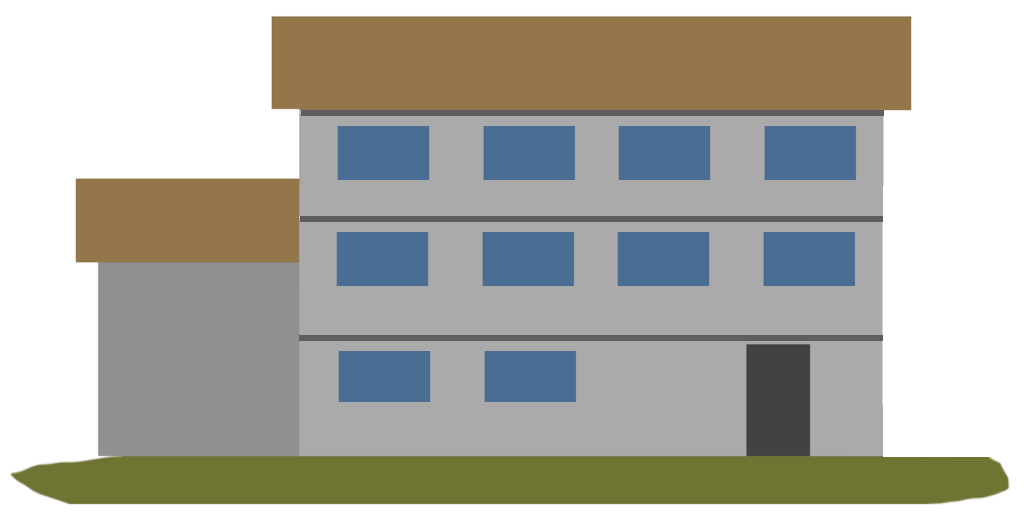
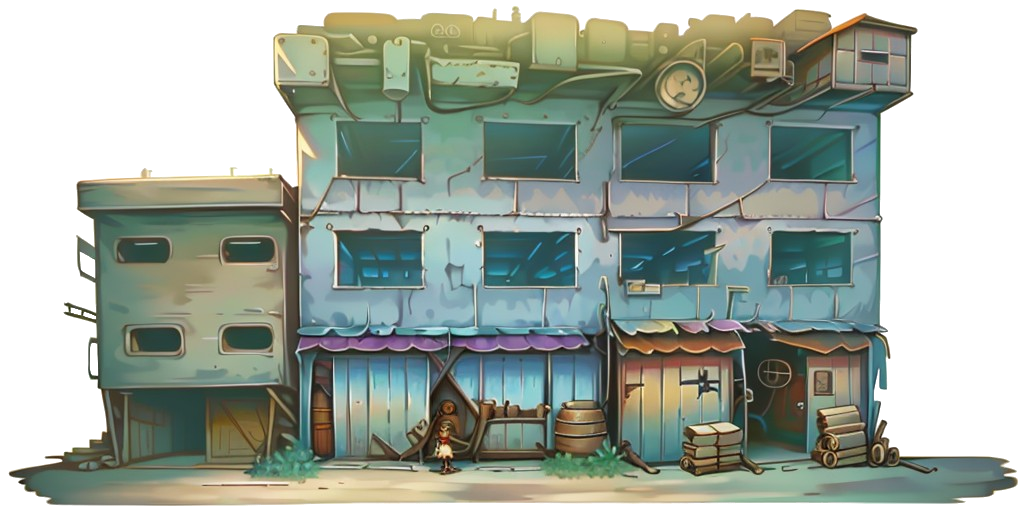
Ajoute les entrepots

diff --git a/classes/cars.py b/classes/cars.py
@@ -7,8 +7,16 @@ class Car(Updatable):
     body = None
     wheels = None
 
-    def __init__(self, pose, world, speed=4, torque=2000, size=Vec(3.5, 1), body=None, wheels=None):
-        super().__init__(world=world, updateGroup=3)
+    def __init__(self, **kwargs):
+        super().__init__(**kwargs, updateGroup=3)
+        pos = kwargs.get("pos")
+        world = kwargs.get("world")
+        speed = kwargs.get("speed")
+        torque = kwargs.get("torque")
+        size = kwargs.get("size")
+        body = kwargs.get("body")
+        wheels = kwargs.get("wheels")
+        destination = kwargs.get("destination")
 
         if not body:
             if not Car.body:
@@ -20,12 +28,13 @@ class Car(Updatable):
                 Car.wheels = loadImage("ressources/wheelTemplate.png")
             wheels = Car.wheels
 
-        self.wheel1 = TireNode(pygame.Vector2(pose.x - size.x / 2.2, pose.y + 0.5), world, image=wheels)
-        self.wheel2 = TireNode(pygame.Vector2(pose.x + size.x / 2.2, pose.y + 0.5), world, image=wheels)
-        self.top1 = CarNode(pygame.Vector2(pose.x - size.x / 2, pose.y + size.y + 0.5), world)
-        self.top2 = CarNode(pygame.Vector2(pose.x + size.x / 2, pose.y + size.y + 0.5), world)
+        self.wheel1 = TireNode(pygame.Vector2(pos.x - size.x / 2.2, pos.y + 0.5), world, image=wheels)
+        self.wheel2 = TireNode(pygame.Vector2(pos.x + size.x / 2.2, pos.y + 0.5), world, image=wheels)
+        self.top1 = CarNode(pygame.Vector2(pos.x - size.x / 2, pos.y + size.y + 0.5), world)
+        self.top2 = CarNode(pygame.Vector2(pos.x + size.x / 2, pos.y + size.y + 0.5), world)
         self.chuck1 = CarSuspention(self.wheel1, self.top1, world)
         self.chuck2 = CarSuspention(self.wheel2, self.top2, world)
+        self.destination = destination
         CarSuspention(self.wheel1, self.top2, world)
         CarSuspention(self.wheel2, self.top1, world)
         CarSuspention(self.wheel1, self.wheel2, world)
@@ -47,24 +56,42 @@ class Car(Updatable):
             self.top1.deleteFlag or
             self.top2.deleteFlag):
             self.delete()
+        else:
+            self.pos = self.body.pos
 
-        targetSpin = -self.speed/self.chuck1.node1.radius
-        torque = (targetSpin-self.chuck1.node1.spin)*self.torque
-        self.chuck1.node1.applyTorqueToLink(self.chuck1, torque)
+        if self.destination:
+            dist = self.destination.pos.x-self.pos.x
+            if abs(dist < 0.1):
+                self.body.delete()
+                self.chuck1.delete()
+                self.chuck2.delete()
+                self.wheel1.delete()
+                self.wheel2.delete()
+                self.top1.delete()
+                self.top2.delete()
+                self.delete()
+            else:
+                speed = min(self.speed, max(-self.speed, dist))
 
-        targetSpin = -self.speed/self.chuck2.node1.radius
-        torque = (targetSpin-self.chuck2.node1.spin)*self.torque
-        self.chuck2.node1.applyTorqueToLink(self.chuck2, torque)
+                targetSpin = -speed/self.chuck1.node1.radius
+                torque = min(self.torque, max(-self.torque, (targetSpin-self.chuck1.node1.spin)*10000))
+                self.chuck1.node1.applyTorqueToLink(self.chuck1, torque)
+
+                targetSpin = -speed/self.chuck2.node1.radius
+                torque = min(self.torque, max(-self.torque, (targetSpin-self.chuck2.node1.spin)*10000))
+                self.chuck2.node1.applyTorqueToLink(self.chuck2, torque)
+
+
 
 class Pickup(Car):
     body = None
     wheels = None
-    def __init__(self, pose, world):
+    def __init__(self, **kwargs):
 
         if not Pickup.body:
             Pickup.body = loadImage("ressources/pickup.png")
         if not Pickup.wheels:
             Pickup.wheels = loadImage("ressources/tire.png")
 
-        super().__init__(pose, world, 4, 400, Vec(4, 0.8), body=Pickup.body, wheels=Pickup.wheels)
+        super().__init__(**kwargs, speed=10, torque=4000, size=Vec(4, 0.8), body=Pickup.body, wheels=Pickup.wheels)
 

diff --git a/classes/warehouse.py b/classes/warehouse.py
@@ -1,0 +1,35 @@
+from classes.abstract.building import Building
+from time import time
+from classes.cars import Pickup
+from pygame import Vector2 as Vec
+from myGL import loadImage, drawImage
+from OpenGL.GL import *
+
+
+# font = pygame.font.SysFont("silomttf", 48)
+
+class Warehouse(Building):
+    image = None
+
+
+    def __init__(self, pos, world):
+
+        super().__init__(pos=pos, world=world, drawingGroup=0, updateGroup=1)
+
+        if not Warehouse.image:
+            Warehouse.image = loadImage("ressources/warehouse.png")
+
+    def update(self, dt):
+        pass
+
+    def draw(self, camera):
+
+        glColor3f(1, 1, 1)  # Couleur blanche (la texture fournit la couleur)
+        drawImage(Warehouse.image, camera.posToScreen(self.pos+Vec(0, 5)), Vec(6, 3)*4*camera.zoom, 0)
+
+    def delete(self):
+        if not self.deleteFlag:
+            super().delete()
+
+
+

diff --git a/classes/garage.py b/classes/garage.py
@@ -12,12 +12,13 @@ class Garage(Building):
     image = None
 
 
-    def __init__(self, pos, world):
+    def __init__(self, pos, world, destination):
 
         super().__init__(pos=pos, world=world, drawingGroup=0, updateGroup=1)
         self.delay = 5
         self.NextCarTime = time()+self.delay
         self.greenlight = True
+        self.destination = destination
 
         if not Garage.image:
             Garage.image = loadImage("ressources/garage.png")
@@ -25,7 +26,7 @@ class Garage(Building):
     def update(self, dt):
         curTime = time()
         if curTime > self.NextCarTime:
-            Pickup(self.pos, self.world)
+            Pickup(pos=self.pos+Vec(0, -0.3), world=self.world, destination=self.destination)
             self.NextCarTime = curTime+self.delay
 
     def draw(self, camera):

diff --git a/levels/river.py b/levels/river.py
@@ -4,6 +4,7 @@ from classes.materials.ground import GroundNode, GroundLink
 import pygame
 from classes.abstract.node import Node
 from classes.garage import Garage
+from classes.warehouse import Warehouse
 
 def config(self):
     nb = 5
@@ -31,7 +32,8 @@ def config(self):
     GroundNode(pygame.Vector2(5, -2.5), self)
     GroundNode(pygame.Vector2(8, 0), self)
 
-    Garage(pygame.Vector2(-18, 0.5), self)
+    warehouse = Warehouse(pygame.Vector2(18, 0.5), self)
+    Garage(pygame.Vector2(-18, 0.5), self, warehouse)
 
 
     nodeA, nodeB = node2, PaveNode(pygame.Vector2(-3, 0), self)
